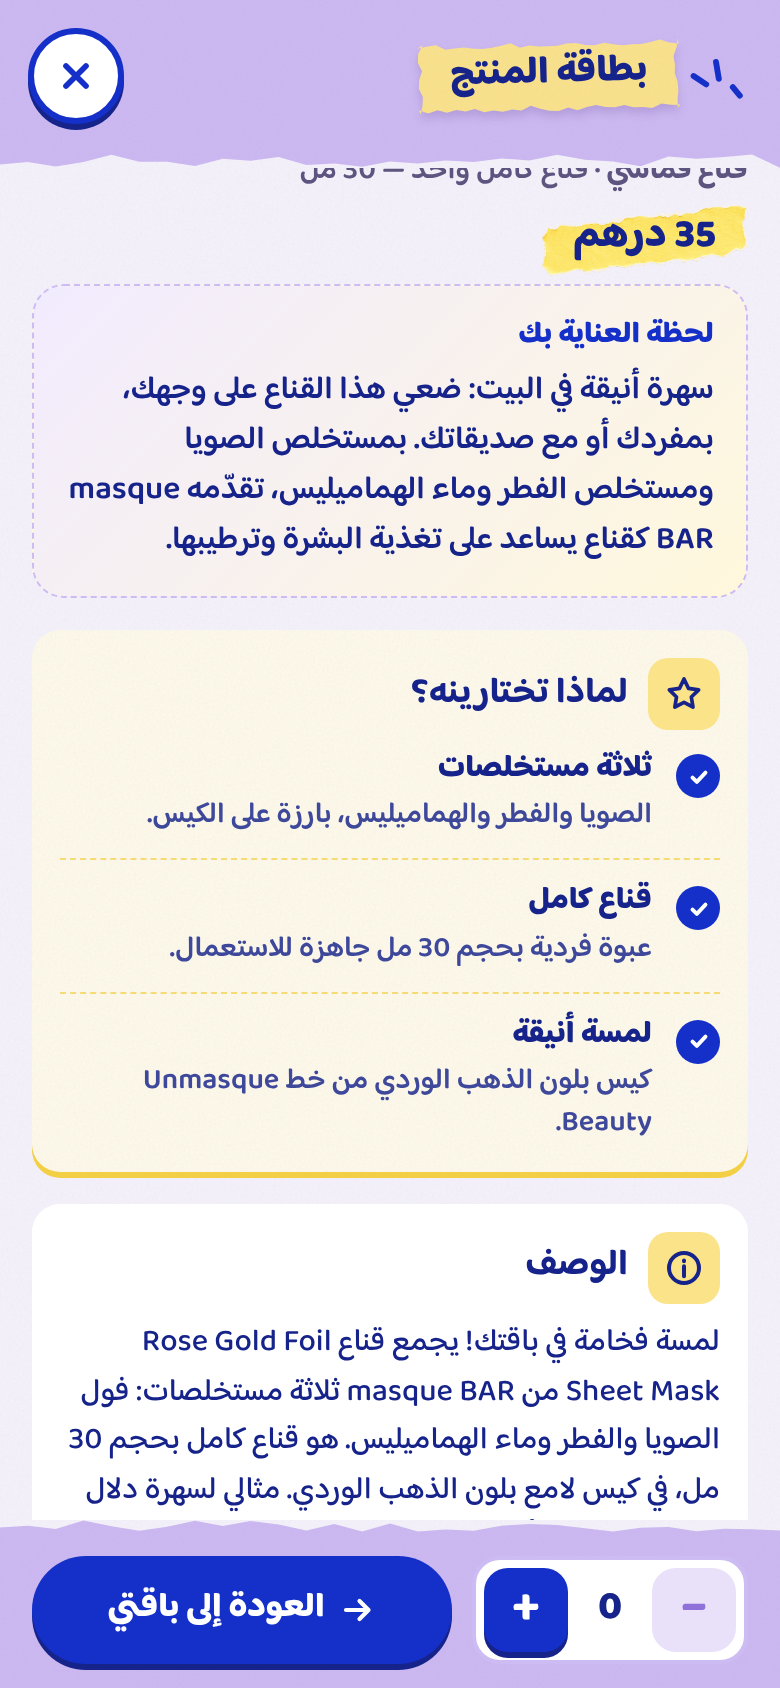
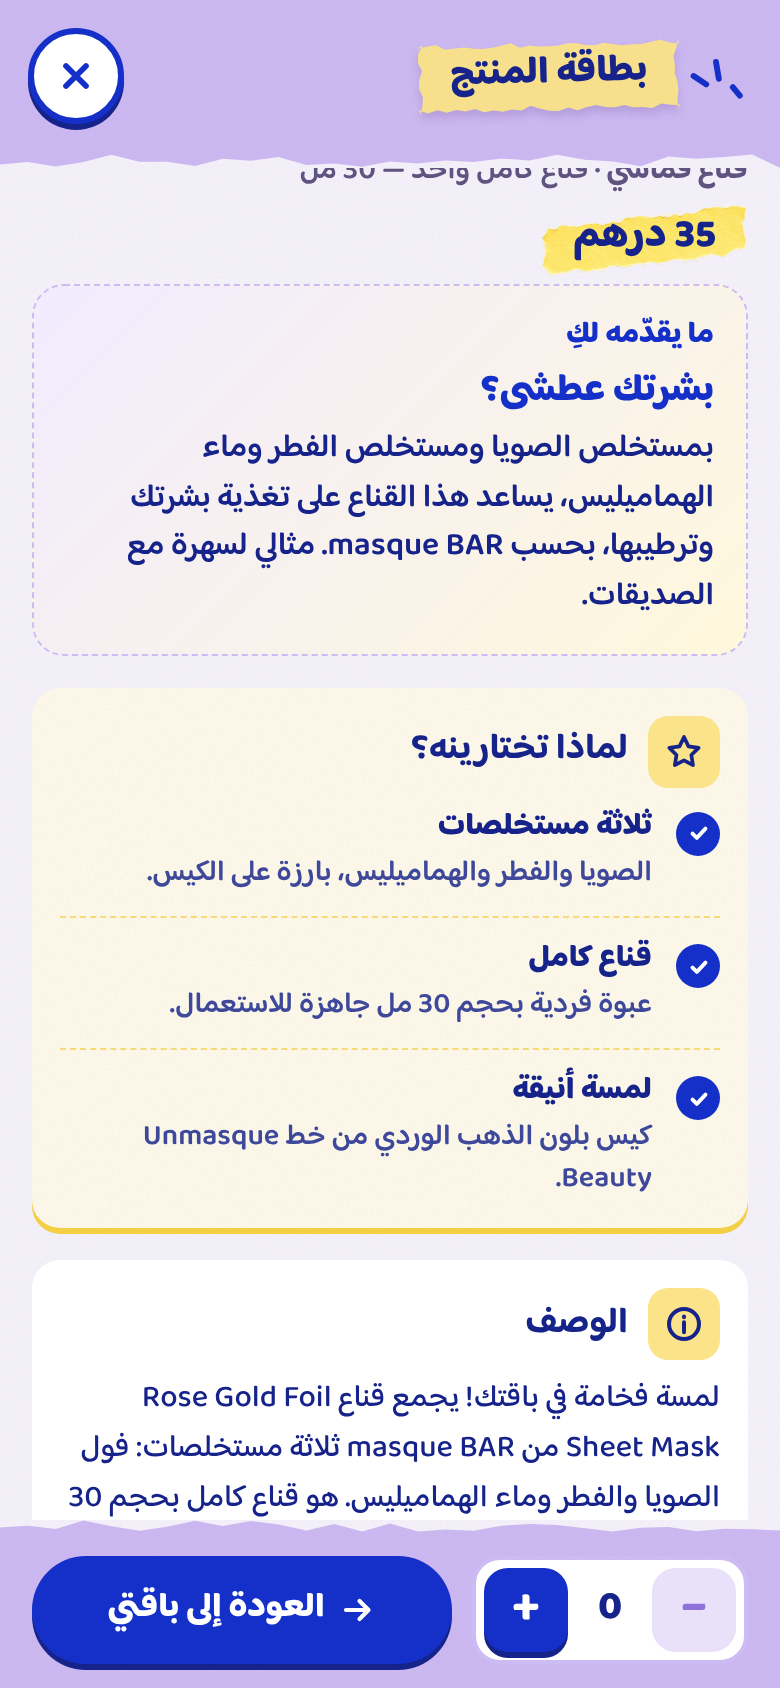
Introductions v2 : bénéfice d'abord (« Ce qu'il t'apporte »), question d'accroche en gras
- 8 textes réécrits FR / AR / EN : « aide à », « conçu pour », « selon la marque », effets de l'emballage uniquement
- database/introductions.sql : remplace la 1re version exacte, jamais un texte modifié dans l'admin

Claude-Session: https://claude.ai/code/session_01D4a2WqgbVXQvrowoBomywW

Changed region(s): [[0.0615, 0.1848, 0.9846, 0.8934]]

diff --git a/client/src/shop/pages/PickPage.jsx b/client/src/shop/pages/PickPage.jsx
@@ -19,7 +19,7 @@ export const P = {
     empty: "Vide", removeOne: "Retirer ce masque", sheetTag: "Fiche produit", photo: n => `Photo ${n}`,
     packText: "Mentions imprimées sur l'emballage", packNote: "Recopiées telles quelles, dans la langue de l'emballage.",
     info: "Description", usage: "Mode d'emploi", video: "Vidéo", notGiven: "Information à confirmer",
-    intro: "Ton moment de soin", hl: "Pourquoi le choisir ?", specs: "Fiche technique",
+    intro: "Ce qu'il t'apporte", hl: "Pourquoi le choisir ?", specs: "Fiche technique",
     sBrand: "Marque", sName: "Nom du produit", sType: "Type", sContent: "Contenance", precautions: "Précautions",
     packMore: "Voir le texte original de l'emballage",
     backTo: "Retour à mon pack", edit: "Modifier le pack", added: "Pack ajouté au panier ✓", addedBtn: "Ajouté",
@@ -33,7 +33,7 @@ export const P = {
     empty: "فارغ", removeOne: "إزالة هذا القناع", sheetTag: "بطاقة المنتج", photo: n => `الصورة ${n}`,
     packText: "النص المطبوع على الغلاف", packNote: "منقول كما هو، بلغة الغلاف.",
     info: "الوصف", usage: "طريقة الاستعمال", video: "فيديو", notGiven: "معلومة في انتظار التأكيد",
-    intro: "لحظة العناية بك", hl: "لماذا تختارينه؟", specs: "البطاقة التقنية",
+    intro: "ما يقدّمه لكِ", hl: "لماذا تختارينه؟", specs: "البطاقة التقنية",
     sBrand: "العلامة التجارية", sName: "اسم المنتج", sType: "النوع", sContent: "المحتوى", precautions: "احتياطات الاستعمال",
     packMore: "عرض النص الأصلي للغلاف",
     backTo: "العودة إلى باقتي", edit: "تعديل الباقة", added: "أُضيفت الباقة إلى السلة ✓", addedBtn: "تمت الإضافة",
@@ -47,7 +47,7 @@ export const P = {
     empty: "Empty", removeOne: "Remove this mask", sheetTag: "Product sheet", photo: n => `Photo ${n}`,
     packText: "Printed on the packaging", packNote: "Copied as printed, in the packaging's language.",
     info: "Description", usage: "How to use", video: "Video", notGiven: "Information to be confirmed",
-    intro: "Your care moment", hl: "Why choose it?", specs: "Product details",
+    intro: "What it does for you", hl: "Why choose it?", specs: "Product details",
     sBrand: "Brand", sName: "Product name", sType: "Type", sContent: "Contents", precautions: "Precautions",
     packMore: "See the original packaging text",
     backTo: "Back to my pack", edit: "Change pack", added: "Pack added to cart ✓", addedBtn: "Added",
@@ -480,7 +480,11 @@ export function ProductModal({ p, x, lang, closeLabel, qtyCtl, onClose, money })
             <div className={`pprice${x.price == null ? " tbd" : ""}`}>{x.price == null ? p.tbd : money(x.price)}</div>
           </section>
           {/* Introduction : ce que le produit apporte et comment il s'intègre au moment de soin (masquée si vide) */}
-          {intro && <section className="pintro"><h3>{p.intro}</h3><p>{intro}</p></section>}
+          {intro && (() => {
+            // 1re phrase-question (« Peau terne ? ») mise en avant, puis le bénéfice annoncé par la marque
+            const m = /^(.{3,90}?[?؟])\s+([\s\S]+)$/.exec(intro);
+            return <section className="pintro"><h3>{p.intro}</h3>{m ? <><p className="hook">{m[1]}</p><p>{m[2]}</p></> : <p>{intro}</p>}</section>;
+          })()}
           {highlights.length > 0 && card("phl", "star", p.hl, <ul className="hlist">{highlights.map((l, i) => {
             // « Titre : phrase courte » → titre en gras + phrase ; sinon la ligne telle quelle
             const m = /^(.{2,48}?)\s*[:：]\s+(.+)$/.exec(l);

diff --git a/server/scripts/fiches.js b/server/scripts/fiches.js
@@ -60,7 +60,7 @@ export async function applyFiches(conn, { quiet = false } = {}) {
         : r.key.startsWith("v3-") ? "Fiches v3 — avantages d'abord, une langue par texte :"
         : r.key.startsWith("langue-") ? "Corrections de langue (FR / AR / EN) :"
         : r.key.startsWith("reglage-") ? "Réglages :"
-        : r.key.startsWith("intro-") ? "Introductions des fiches (« Ton moment de soin ») :"
+        : r.key.startsWith("intro-") ? "Introductions des fiches (« Ce qu’il t’apporte ») :"
         : r.key.startsWith("prix-") ? "Prix unitaires des masques (posés seulement si le prix est vide) :"
         : r.key.startsWith("produit-") || r.key.startsWith("categorie") || r.key.startsWith("photo-orjena") || r.key.startsWith("photo-somebymi") ? "Soins à l'unité :"
         : r.key.startsWith("photo-") ? "Photos d'ambiance :" : "";
@@ -69,7 +69,7 @@ export async function applyFiches(conn, { quiet = false } = {}) {
         : r.key.startsWith("reglage-") ? (r.changed ? `ajouté → ${r.setting}` : `déjà réglé, conservé → ${r.setting}`)
         : r.key.startsWith("prix-") ? (r.changed ? `prix posé → ${r.prices.join(", ")}` : `prix déjà saisi, conservé → ${r.prices.join(", ")}`)
         : r.created ? (r.changed ? "ajoutée" : "déjà présente")
-        : r.key.startsWith("desc-") || r.key.startsWith("pf-") || r.key.startsWith("v3-") || r.key.startsWith("langue-") ? (r.changed ? "réécrite" : "déjà à jour (ou modifiée dans l'admin : conservée)")
+        : r.key.startsWith("desc-") || r.key.startsWith("pf-") || r.key.startsWith("v3-") || r.key.startsWith("langue-") || r.key.startsWith("intro-") ? (r.changed ? "réécrite" : "déjà à jour (ou modifiée dans l'admin : conservée)")
         : r.changed ? `complétée (${r.matched} produit(s))` : `déjà à jour (${r.matched} produit(s))`;
       console.log(`  ${r.matched ? "✔" : "✖"} ${r.label.padEnd(62)} ${state}`);
     }

diff --git a/client/src/admin/pages/ProductForm.jsx b/client/src/admin/pages/ProductForm.jsx
@@ -101,9 +101,9 @@ export default function ProductForm() {
             </div>
           </Card>
 
-          <Card title="Introduction (ton moment de soin)" icon="star" actions={<Tabs small label="Langue de l'introduction" tabs={langTabs("intro")} value={introLang} onChange={setIntroLang} />}>
+          <Card title="Introduction (ce qu’il t’apporte)" icon="star" actions={<Tabs small label="Langue de l'introduction" tabs={langTabs("intro")} value={introLang} onChange={setIntroLang} />}>
             {LANGS.map(([k, l]) => k === introLang && (
-              <Field key={k} label={`Introduction — ${l}`} error={errs["intro" + k]} hint="Affichée en premier sur la fiche : 2-3 phrases courtes. Les effets annoncés par l'emballage sont présentés comme la description de la marque, jamais comme un résultat garanti. Vide = bloc masqué.">
+              <Field key={k} label={`Introduction — ${l}`} error={errs["intro" + k]} hint="Affichée en premier sur la fiche : une question courte (« Peau terne ? »), puis le bénéfice annoncé par l’emballage avec « aide à », « conçu pour » ou « selon la marque ». Les effets annoncés par l'emballage sont présentés comme la description de la marque, jamais comme un résultat garanti. Vide = bloc masqué.">
                 <textarea rows={4} dir={k === "Ar" ? "rtl" : undefined} {...fp("intro" + k)} /></Field>))}
           </Card>
 

diff --git a/client/src/styles/shop-extra.css b/client/src/styles/shop-extra.css
@@ -138,3 +138,4 @@ details.pk>.orig{padding-bottom:12px}
 .pmodal .pintro h3{margin:0 0 6px;font-size:13px;font-weight:800;letter-spacing:.3px;text-transform:uppercase;color:var(--cob,#1530C8)}
 [dir=rtl] .pmodal .pintro h3{text-transform:none;letter-spacing:0;font-size:15px}
 .pmodal .pintro p{margin:0;font-size:16px;line-height:1.55;font-weight:600;color:var(--navy,#1b1f5e);unicode-bidi:plaintext;text-align:start}
+.pmodal .pintro .hook{margin:0 0 4px;font-size:19px;line-height:1.3;font-weight:800;color:var(--cob,#1530C8)}

diff --git a/docs/fiches-produits.md b/docs/fiches-produits.md
@@ -34,9 +34,9 @@ Règle des langues, vérifiée automatiquement sur les 24 fiches affichées (8 p
 Retiré : « testée non comédogène selon la marque » (Yuja Niacin), car l'astérisque n'est pas lisible. Les lignes Type / Contenance vides sont masquées (plus de « Information à confirmer »).
 Mise à jour des bases existantes : `database/contenu-v3.sql` (remplace seulement les versions générées v1/v2 ; un texte modifié dans l'admin est conservé).
 
-**Introductions (27/11/2026)** : bloc **« Ton moment de soin »** (AR « لحظة العناية بك », EN « Your care moment ») affiché en premier, avant « Pourquoi le choisir ? ». 2 phrases : le geste (poser le masque sur le visage ; pour les 2 soins, le mode d'emploi confirmé) puis l'effet **annoncé par l'emballage**, toujours attribué à la marque (« MEDIHEAL le présente comme… », « 7th Heaven le décrit comme… »). Aucune promesse de résultat.
+**Introductions v2 (27/11/2026)** : bloc **« Ce qu'il t'apporte »** (AR « ما يقدّمه لكِ », EN « What it does for you »). Une question courte en gras (« Peau terne ? »), puis le bénéfice annoncé par l'emballage avec « aide à », « conçu pour », « selon la marque ». Remplace la 1re version (« Ton moment de soin ») affiché en premier, avant « Pourquoi le choisir ? ». 2 phrases : le geste (poser le masque sur le visage ; pour les 2 soins, le mode d'emploi confirmé) puis l'effet **annoncé par l'emballage**, toujours attribué à la marque (« MEDIHEAL le présente comme… », « 7th Heaven le décrit comme… »). Aucune promesse de résultat.
 Source des effets cités : Core Firming (MEDIHEAL), Anti-Fatigue / Brightening + Re-Energising (7th Heaven), Revitalizing & Soothing (look AT ME), « Nettoie les pores et élimine la fatigue de la peau » (IDC Institute), Moisturizing / Radiance + « revitalizes dull skin » (SOME BY MI Glutathione), « help nourish and hydrate » (masque BAR), Skin Elasticity / Nutrition / Refresh (ORJENA), Anti Blemish (nom du produit SOME BY MI Yuja).
-Fichiers : colonne `intro_fr/ar/en` (`database/migrations/005_introduction_produit.sql`), textes `database/introductions.sql` (remplit seulement une introduction vide). Modifiable dans l'admin : **Produits → fiche → « Introduction (ton moment de soin) »**.
+Fichiers : colonne `intro_fr/ar/en` (`database/migrations/005_introduction_produit.sql`), textes `database/introductions.sql` (remplit seulement une introduction vide). Modifiable dans l'admin : **Produits → fiche → « Introduction (ce qu'il t'apporte) »**.
 
 ## Informations manquantes (sections masquées tant qu'elles ne sont pas confirmées)
 
